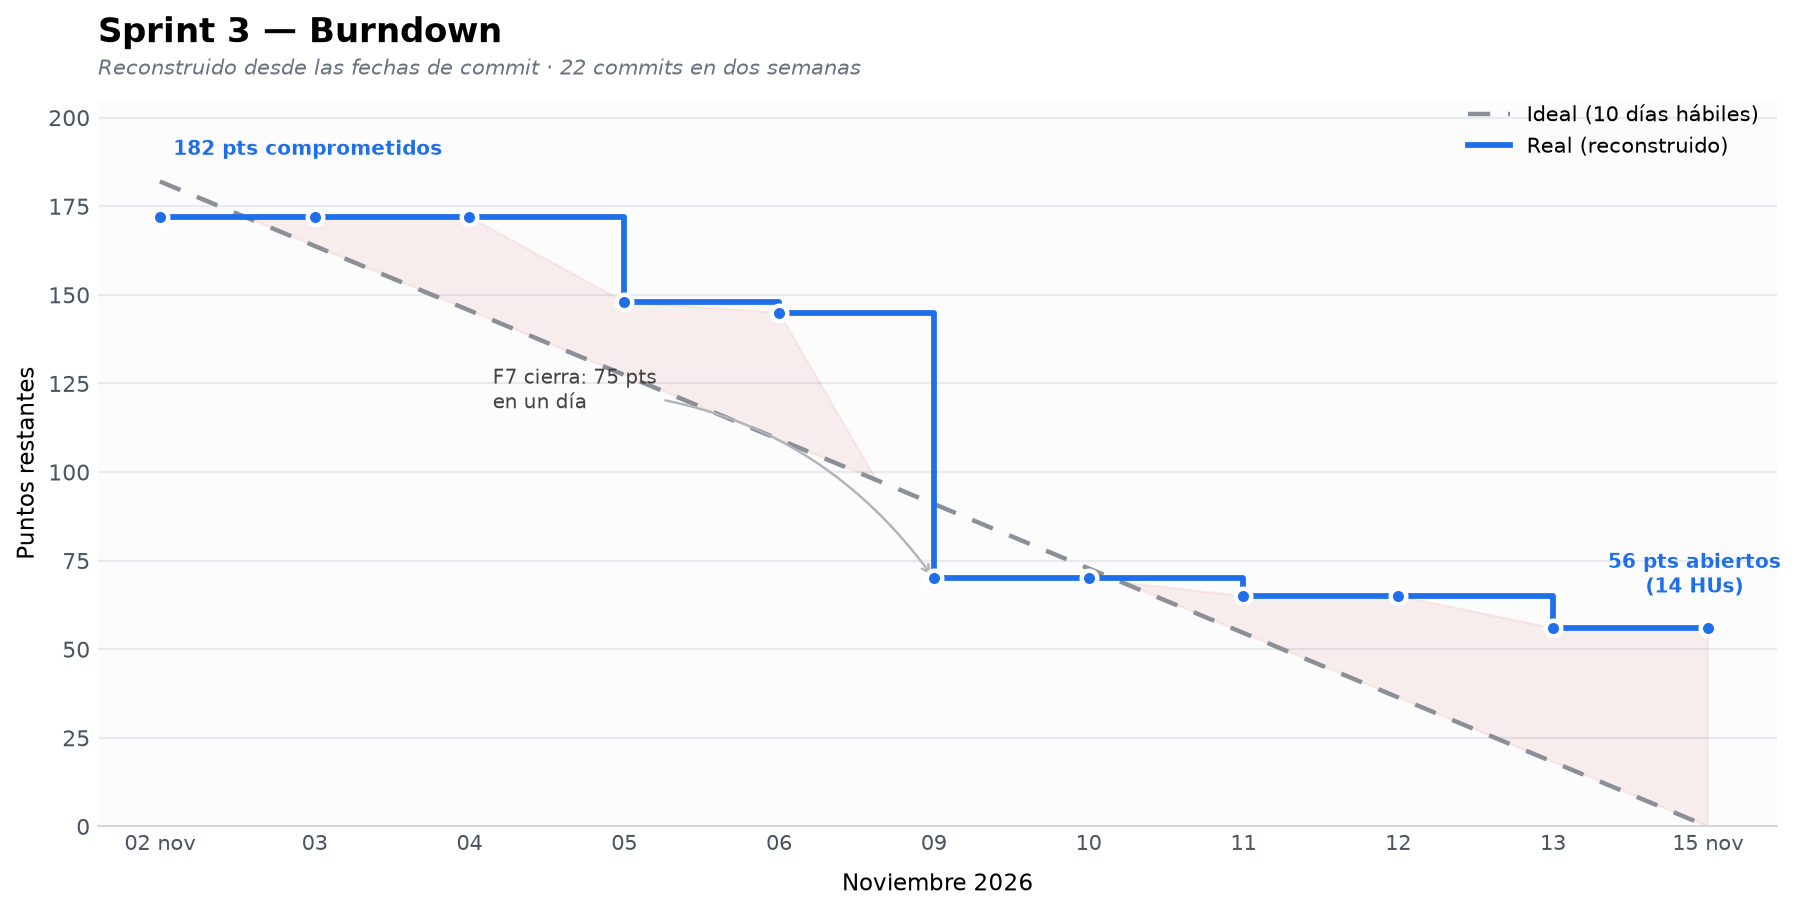
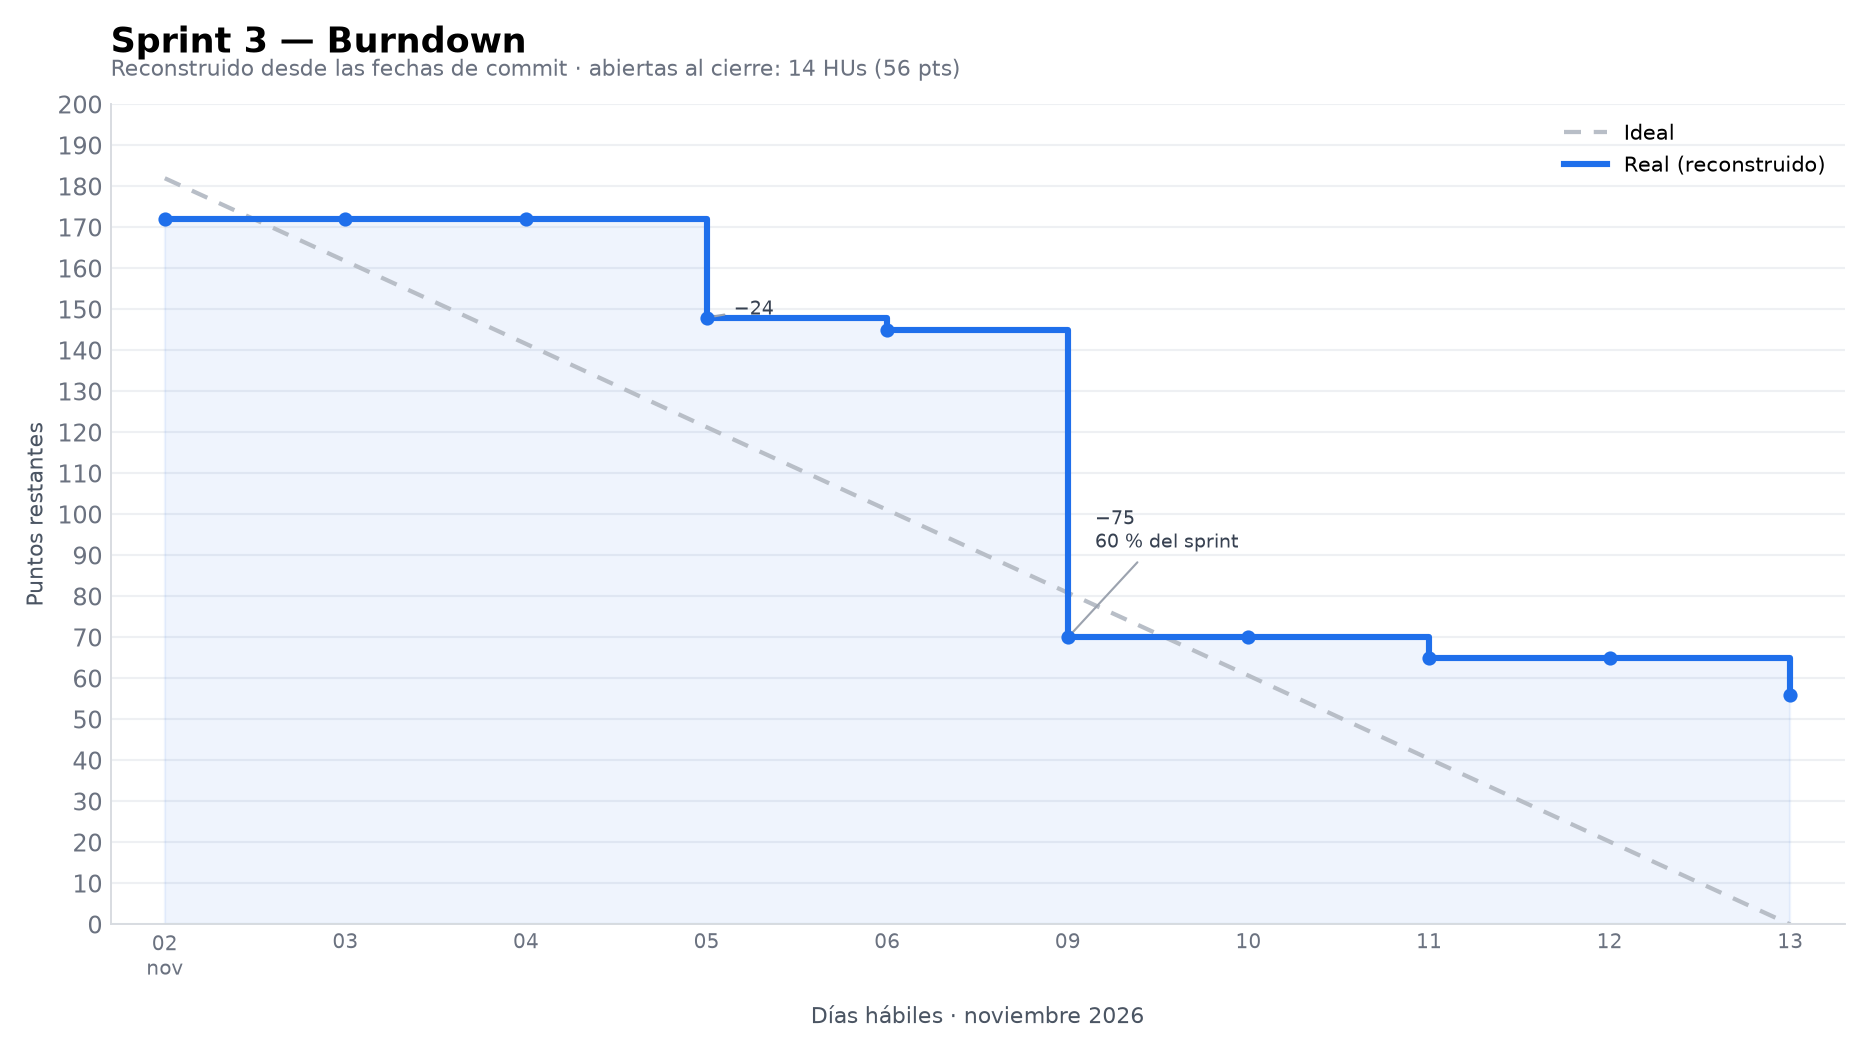
docs(fase2): corregir las cifras que no se sostenian
Auditoria de los 36 documentos contra el repositorio y Jira. Lo que se
corrige:

- Sprint 1: la caida de 10 puntos del 16 de octubre (AUT-1, AUT-2, INV-8)
  no tiene commit que la respalde. El historial salta del 13 al 19. Se
  documenta como no fechada en burndown.md y daily.md en vez de dibujarla
  como si fuera un dato.
- Sprint 1: el hueco maximo era de 16 puntos el 9 de octubre (35 contra
  19,4), no el 12. Y TEC-10 cerro el 6, no el 12: el escalon era de 3 y
  luego de 13.
- Sprint 2: la linea ideal se repartia entre 10 dias y llegaba a cero el
  ultimo, mal calculada.
- Sprint 3: la ideal tenia un dia de mas. El conteo real es 17 commits en
  main (21 contando otras ramas), no 22.
- Sprint 4: el sprint mezcla trabajo arrastrado de los sprints 1 a 3 (18
  HUs), 9 sin sprint y SP-01, no solo "arrastradas de los sprints 2 y 3".
  La ventana de trabajo son 6 dias habiles hasta el 22 o 23, no 10 hasta el
  29: el burndown usaba el calendario de Jira, que no es el del equipo.
- Los totales de los cuatro sprints no suman 83: el Sprint 4 incluye
  trabajo ya contado. Queda dicho en el README.

Se regeneran los cuatro burndown PNG para que coincidan con sus tablas.

diff --git a/docs/fase2/sprint-1/burndown.md b/docs/fase2/sprint-1/burndown.md
@@ -19,15 +19,15 @@
 | Día | Ideal restante | Real restante | HUs que cierran |
 |---|---|---|---|
 | 05 oct | 35,0 | 35 | — |
-| 06 oct | 31,1 | 35 | bootstrap y demo: sin puntos de HU |
-| 07 oct | 27,2 | 35 | — |
-| 08 oct | 23,3 | 35 | — |
-| 09 oct | 19,4 | 35 | — |
-| 12 oct | 15,6 | **19** | TEC-10, TEC-12, DPG-01 a DPG-05 (−16) |
-| 13 oct | 11,7 | 19 | Supabase, sin cierre de HU |
+| 06 oct | 31,1 | **32** | TEC-10 (−3) |
+| 07 oct | 27,2 | 32 | — |
+| 08 oct | 23,3 | 32 | — |
+| 09 oct | 19,4 | 32 | — |
+| 12 oct | 15,6 | **19** | TEC-12, DPG-01 a DPG-05 (−13) |
+| 13 oct | 11,7 | 19 | Supabase y Vercel, sin cierre de HU |
 | 14 oct | 7,8 | 19 | — |
 | 15 oct | 3,9 | 19 | — |
-| 16 oct | 0,0 | **9** | AUT-1, AUT-2, INV-8 (−10) |
+| 16 oct | 0,0 | **9** | AUT-1, AUT-2, INV-8 (−10), **sin commit que lo respalde** |
 | 18 oct | 0,0 | **6** | SP-02 (−3) |
 
 ## Aritmética del cierre
@@ -43,16 +43,27 @@ Cumplimiento          29 / 35 = 83 %
 
 - **La curva es escalonada, no diagonal.** Cinco días sin cierre y dos caídas netas (12 y 16 de
   octubre). Es el patrón de trabajo concentrado en sesiones, no de dedicación diaria pareja.
-- **Termina 6 puntos por encima de la línea ideal**, que son exactamente las dos HUs trasladadas
-  al Sprint 2. No hay desvío no explicado: todo punto abierto tiene destino.
-- **El hueco no creció a mitad de sprint.** La distancia con el ideal pasó de ~16 puntos el 12 de
-  octubre a 6 al cierre: el trabajo aceleró al final, no se estancó.
+- **Termina 6 puntos por encima de la línea ideal**, que son exactamente las dos HUs que se
+  arrastraron al Sprint 4. No hay desvío no explicado: todo punto abierto tiene destino.
+- **El hueco máximo no está al final.** Llegó a ~16 puntos el 9 de octubre, cuando la línea ideal
+  ya había bajado a 19,4 y el real seguía en 32. Al cierre el hueco es de 6.
 
 ## Límite del dato
 
+La caída de 10 puntos del 16 de octubre (AUT-1, AUT-2 e INV-8) **no tiene commit que la respalde**.
+El historial salta del 13 al 19 de octubre, y las rutas que hoy implementan esas HUs
+(`apps/web/src/features/auth/RegisterPage.tsx` y `libs/data-access/`) se crearon en noviembre, en
+el Sprint 3. Jira las da por cerradas dentro del Sprint 1 y esa es la única fuente de la fecha; el
+repositorio no permite fecharlas ahí. Se dibujan el 16 de octubre porque es el último día hábil del
+sprint, no porque exista evidencia de ese día.
+
+Es el mismo desfase que afecta a siete HUs cerradas del Sprint 2, documentado en
+[`../sprint-2/backlog.md`](../sprint-2/backlog.md): el estado en Jira y la fecha del código no
+coinciden, y el documento lo dice en vez de taparlo.
+
 Jira registra SP-02 como `Done` pero **no guarda la fecha de la transición**, así que el paso de
-9 a 6 puntos no se puede ubicar en un día concreto. Se dibuja en el cierre porque es lo único
-verificable. Los otros dos escalones sí tienen fecha de commit.
+9 a 6 puntos tampoco se puede ubicar en un día concreto. Se dibuja en el cierre porque es lo único
+verificable.
 
 ## Datos que respaldan la curva
 
@@ -62,4 +73,5 @@ verificable. Los otros dos escalones sí tienen fecha de commit.
 2026-10-12  feat(core-engine): motor portado desde el prototipo con pruebas
 2026-10-12  feat(shared-types): contrato de juego completo con Zod
 2026-10-13  sql_supabase, vercel.json, evidencia Fase 2
+2026-10-19  siguiente commit del repositorio
 ```

diff --git a/docs/fase2/sprint-4/burndown.md b/docs/fase2/sprint-4/burndown.md
@@ -2,25 +2,24 @@
 
 ![Burndown del Sprint 4 al 20 de noviembre](./burndown.png)
 
-> **Gráfico parcial.** El sprint está activo: solo transcurrieron 5 de los 10 días hábiles. La
-> curva real llega hasta el 20 de noviembre y se detiene ahí; lo que sigue es la proyección ideal,
-> no un dato.
+> **Gráfico parcial.** El sprint está activo y solo transcurrieron 5 de los 6 días hábiles de
+> trabajo. La curva real llega hasta el 20 de noviembre y se detiene ahí; lo que sigue es la
+> proyección ideal, no un dato.
+>
+> **Ventana.** Jira fecha el sprint del 16 al 29 de noviembre, pero el equipo lo cierra el 22 o 23
+> porque la entrega se presenta antes. El burndown usa la ventana real de trabajo, no la del
+> calendario de Jira: seis días hábiles, del 16 al 23.
 
 ## Tabla
 
 | Día hábil | Ideal | Real | Se cierran |
 |---|---|---|---|
 | 16 nov | 162,0 | 162 | — |
-| 17 nov | 145,8 | 162 | — |
-| 18 nov | 129,6 | 162 | — |
-| 19 nov | 113,4 | 162 | — |
-| 20 nov | 97,2 | **159** | SP-01 (−3) |
-| 23 nov | 81,0 | por transcurrir | — |
-| 24 nov | 64,8 | por transcurrir | — |
-| 25 nov | 48,6 | por transcurrir | — |
-| 26 nov | 32,4 | por transcurrir | — |
-| 27 nov | 16,2 | por transcurrir | — |
-| 29 nov | 0,0 | cierre | — |
+| 17 nov | 135,0 | 162 | — |
+| 18 nov | 108,0 | 162 | — |
+| 19 nov | 81,0 | 162 | — |
+| 20 nov | 54,0 | **159** | SP-01 (−3) |
+| 23 nov | 0,0 | cierre | — |
 
 ## Aritmética al 20 de noviembre
 
@@ -29,7 +28,7 @@ Comprometido            162 pts  (39 HUs)
 Cerrado                   3 pts  (1 HU: SP-01)
 Restante                159 pts
 Avance                     1,9 %
-Días hábiles transcurridos  5 de 10
+Días hábiles transcurridos  5 de 6
 ```
 
 ## Lectura
@@ -40,10 +39,12 @@ Días hábiles transcurridos  5 de 10
 - **Siete HUs están en curso y ninguna cerrada.** El trabajo del editor de juegos está en marcha
   —atributos, variables simples, variables derivadas, variables por categoría y variantes— pero
   nada de eso se puede demostrar todavía.
-- **La brecha con la línea ideal es de 62 puntos** al quinto día. Cerrarla exige entregar el editor
-  completo en cinco días hábiles.
-- **El alcance incluye 28 HUs arrastradas**, así que la curva ideal no es alcanzable por
-  construcción: buena parte de esos 162 puntos no se va a cerrar en este sprint.
+- **La brecha con la línea ideal es de 105 puntos** al quinto día. Cerrarla exigiría entregar el
+  editor completo, y algo más, en un solo día hábil.
+- **El alcance incluye 28 HUs que llegaron en el ordenamiento del 20 de noviembre**: 18 arrastradas
+  de los sprints 1 a 3, 9 que no tenían sprint y SP-01, que volvió desde el Sprint 0 para cerrarse.
+  Con eso, la curva ideal no es alcanzable por construcción: buena parte de esos 162 puntos no se
+  va a cerrar en este sprint.
 
 ## Qué mirar en el cierre
 

diff --git a/docs/fase2/sprint-4/planning.md b/docs/fase2/sprint-4/planning.md
@@ -6,8 +6,8 @@
 final.
 
 > Este documento describe un sprint **en curso**. Los datos son los que devuelve Jira el 20 de
-> noviembre de 2026. El equipo cierra el sprint el 22 o 23 de noviembre, así que las cifras
-> cambian antes del cierre y no se presentan como definitivas.
+> noviembre de 2026. Jira lo fecha del 16 al 29, pero el equipo lo cierra el 22 o 23 porque la
+> entrega se presenta antes: esa es la ventana que usan el burndown y las cifras de avance.
 
 ## Contexto de partida
 
@@ -33,9 +33,12 @@ aplicación se sostenga sola, y de cerrar la documentación de las cuatro fases.
 | Investigación (SP) | 1 | 3 |
 | **Total** | **39** | **162** |
 
-> El alcance incluye el trabajo arrastrado de los sprints 2 y 3: 28 HUs que no se cerraron. Se
-> mantiene todo en el sprint abierto para que el pendiente sea visible en un solo lugar, en vez de
-> repartirlo en un backlog que nadie mira.
+> El alcance incluye el trabajo que llegó en el ordenamiento del 20 de noviembre: **28 HUs**. De
+> ellas, 18 se arrastraron de los sprints 1 a 3 (2 del Sprint 1, 2 del Sprint 2 y 14 del Sprint 3),
+> 9 no tenían sprint asignado y SP-01 volvió desde el Sprint 0, donde había quedado abierta desde
+> septiembre. Las otras 11 ya estaban en el sprint: 7 de trabajo en curso y 4 creadas para el
+> cierre. Se mantiene todo en el sprint abierto para que el pendiente sea visible en un solo lugar,
+> en vez de repartirlo en un backlog que nadie mira.
 
 ## Qué se está trabajando de verdad
 
@@ -61,7 +64,7 @@ todo lo demás.
 | El juego demo está hardcodeado en el bundle | TEC-22 lo elimina; es la HU que más riesgo tiene |
 | Dos rutas viejas siguen activas (`/inventario`, `/calculadora-dano`) | TEC-23 las redirige a la home |
 | La interfaz del optimizador tiene dos versiones vivas | UI-01 las unifica antes de la entrega |
-| El sprint arrastra 28 HUs que no se van a cerrar | Se dejan visibles como pendiente, no se marcan como hechas |
+| El sprint incluye 28 HUs que no vienen de este sprint | Se dejan visibles como pendiente, no se marcan como hechas |
 
 ## Criterio de aceptación del sprint
 

diff --git a/docs/fase2/README.md b/docs/fase2/README.md
@@ -34,8 +34,13 @@ de noviembre de 2026; el Sprint 4 está activo y sus cifras son de ese mismo dí
 | [4 — Cierre y entrega](./sprint-4/planning.md) | 16-nov → 29-nov | 39 | 162 | 3 | en curso |
 
 > En los sprints 1 a 3, las HUs que no se cerraron se arrastraron al Sprint 4 al cerrar cada
-> sprint. Por eso el Sprint 4 concentra 39 HUs: 11 propias y 28 heredadas. Está explicado en cada
-> `backlog.md` y no se esconde en una nota al pie.
+> sprint: 2 del Sprint 1, 2 del Sprint 2 y 14 del Sprint 3. A esas 18 se sumaron, en el ordenamiento
+> del 20 de noviembre, 9 HUs que no tenían sprint y SP-01, que volvió desde el Sprint 0 para
+> cerrarse. Por eso el Sprint 4 tiene 39 HUs: 11 propias y 28 llegadas de afuera.
+>
+> **Los totales de los cuatro sprints no se suman.** Sumar 13 + 9 + 39 + 39 da 100, pero el
+> proyecto tiene **83 HUs y 332 puntos**: el Sprint 4 incluye trabajo ya contado en los sprints
+> anteriores. El total del proyecto, y no la suma de la columna, es el número a citar.
 
 Jira tiene además un **Sprint 0 — Arranque del repositorio** (02-sep → 16-sep), con una sola HU:
 SP-01, evaluación de monorepos. No se documenta como sprint porque no hubo iteración: fue la
@@ -69,7 +74,7 @@ decisión de arranque, y esa HU se cerró recién en el Sprint 4.
 ## Cómo leer el conjunto
 
 Los sprints 1 y 2 tienen pocos commits y porcentajes altos: fueron sprints de decisiones, donde el
-trabajo no deja rastro en Git. El Sprint 3 tiene 22 commits y el porcentaje más bajo: se
+trabajo no deja rastro en Git. El Sprint 3 tiene 17 commits en `main` y el porcentaje más bajo: se
 comprometió el doble de lo que el equipo venía entregando. El Sprint 4 es el único que arranca con
 el pendiente de los anteriores encima.
 

diff --git a/docs/fase2/sprint-3/burndown.md b/docs/fase2/sprint-3/burndown.md
@@ -10,23 +10,23 @@
 1. Se asigna cada HU cerrada al commit que la evidencia.
 2. Los commits de fin de semana (7 y 8 de noviembre) se imputan al lunes 9, primer día hábil
    siguiente.
-3. La línea ideal reparte 182 puntos entre los **10 días hábiles** (2 al 13 de noviembre).
+3. La línea ideal reparte 182 puntos entre los **9 intervalos** de los 10 días hábiles (2 al 13 de
+   noviembre): 20,2 puntos por día, y llega a cero el 13.
 
 ## Tabla
 
 | Día hábil | Ideal | Real | Se cierran |
 |---|---|---|---|
 | 02 nov | 182,0 | 172 | TEC-04, TEC-05 (−10) |
-| 03 nov | 163,8 | 172 | — |
-| 04 nov | 145,6 | 172 | — |
-| 05 nov | 127,4 | 148 | TEC-02, TEC-13, TEC-19, TEC-14, CFG-19 (−24) |
-| 06 nov | 109,2 | 145 | AUT-3 (−3) |
-| 09 nov | 91,0 | **70** | CFG-15, INV-3, INV-4, TEC-07, INV-5, INV-7, SIM-01, SIM-03, SIM-04, SIM-05, SIM-06, SIM-07, SIM-08 (−75) |
-| 10 nov | 72,8 | 70 | — |
-| 11 nov | 54,6 | 65 | TEC-06 (−5) |
-| 12 nov | 36,4 | 65 | — |
-| 13 nov | 18,2 | 56 | TEC-11, TEC-15, AUT-4 (−9) |
-| 15 nov | 0,0 | **56** | cierre: 14 HUs arrastradas |
+| 03 nov | 161,8 | 172 | — |
+| 04 nov | 141,6 | 172 | — |
+| 05 nov | 121,3 | 148 | TEC-02, TEC-13, TEC-19, TEC-14, CFG-19 (−24) |
+| 06 nov | 101,1 | 145 | AUT-3 (−3) |
+| 09 nov | 80,9 | **70** | CFG-15, INV-3, INV-4, TEC-07, INV-5, INV-7, SIM-01, SIM-03, SIM-04, SIM-05, SIM-06, SIM-07, SIM-08 (−75) |
+| 10 nov | 60,7 | 70 | — |
+| 11 nov | 40,4 | 65 | TEC-06 (−5) |
+| 12 nov | 20,2 | 65 | — |
+| 13 nov | 0,0 | 56 | TEC-11, TEC-15, AUT-4 (−9) |
 
 ## Aritmética del cierre
 

diff --git a/docs/fase2/sprint-2/burndown.md b/docs/fase2/sprint-2/burndown.md
@@ -10,22 +10,23 @@
 
 1. Se toma la fecha del commit que evidencia cada HU.
 2. Cada día se descuentan los puntos de las HUs cuya evidencia aparece ese día o antes.
-3. La línea ideal reparte 32 puntos entre los **10 días hábiles** del sprint (19 al 30 de octubre).
+3. La línea ideal reparte 32 puntos entre los **10 días hábiles** del sprint (19 al 30 de octubre):
+   3,56 puntos por día, y llega a cero el último día hábil.
 
 ## Tabla
 
 | Día | Ideal restante | Real restante | HUs que cierran |
 |---|---|---|---|
 | 19 oct | 32,0 | 32 | ajuste de e2e, sin cierre de HU |
-| 20 oct | 28,8 | 32 | — |
-| 21 oct | 25,6 | 32 | — |
-| 22 oct | 22,4 | 32 | — |
-| 23 oct | 19,2 | 32 | — |
-| 26 oct | 16,0 | 32 | — |
-| 27 oct | 12,8 | 32 | — |
-| 28 oct | 9,6 | 32 | — |
-| 29 oct | 6,4 | 32 | — |
-| 30 oct | 3,2 | 32 | — |
+| 20 oct | 28,4 | 32 | — |
+| 21 oct | 24,9 | 32 | — |
+| 22 oct | 21,3 | 32 | — |
+| 23 oct | 17,8 | 32 | — |
+| 26 oct | 14,2 | 32 | — |
+| 27 oct | 10,7 | 32 | — |
+| 28 oct | 7,1 | 32 | — |
+| 29 oct | 3,6 | 32 | — |
+| 30 oct | 0,0 | 32 | — |
 | 01 nov | 0,0 | **5** | esquema en el repo, tipos generados y pruebas RLS (−27) |
 
 ## Aritmética del cierre

diff --git a/docs/fase2/sprint-4/impedimentos.md b/docs/fase2/sprint-4/impedimentos.md
@@ -4,9 +4,10 @@
 
 **Origen.** Sprint 3. Se planificaron 182 puntos con una capacidad observada de ~30 por sprint.
 
-**Consecuencia en este sprint.** 28 HUs arrastradas conviven con las 11 propias del cierre. El
-Sprint 4 no puede cumplir su objetivo declarado —documentación, CI/CD y demo final— sin decidir qué
-queda fuera.
+**Consecuencia en este sprint.** 28 HUs llegadas del ordenamiento conviven con las 11 propias del
+cierre: 18 arrastradas de los sprints 1 a 3, 9 que no tenían sprint y SP-01. El Sprint 4 no puede
+cumplir su objetivo declarado —documentación, CI/CD, Docker y demo final— sin decidir qué queda
+fuera.
 
 **Estado.** **Abierto.** No se resuelve moviendo tarjetas: se resuelve cerrando el sprint con una
 lista explícita de lo que no entra.
@@ -39,7 +40,7 @@ veces y las pruebas cubren una sola.
 
 | ID | Impedimento | Estado |
 |---|---|---|
-| IMP-11 | Sprint 3 sobrecomprometido, arrastre de 28 HUs | Abierto |
+| IMP-11 | Sprint 3 sobrecomprometido, 28 HUs llegadas del ordenamiento | Abierto |
 | IMP-12 | Juego demo hardcodeado en el bundle | Abierto, en trabajo |
 | IMP-13 | Dos interfaces de optimizador | Abierto, previsto para UI-01 |
 

diff --git a/docs/fase2/sprint-3/daily.md b/docs/fase2/sprint-3/daily.md
@@ -49,7 +49,7 @@ presentar como acta lo que es una reconstrucción.
 
 ## Observación sobre la cadencia
 
-Ocho de los diez días hábiles tienen al menos un commit, y dos de ellos (7 y 8 de noviembre) son
-fin de semana. Es el sprint con más actividad registrada: 22 commits. Aun así el 60 % de los
-puntos cayó en un solo día, porque el trabajo se integró por funcionalidad completa y no por
-partes demostrables.
+Siete de los diez días hábiles tienen al menos un commit, más el fin de semana del 7 y 8 de
+noviembre. Son **17 commits en `main`** (16 sin contar el merge del PR #10), el sprint con más
+actividad registrada. Aun así, el 60 % de los puntos completados cayó en un solo día, porque el
+trabajo se integró por funcionalidad completa y no por partes demostrables.

diff --git a/docs/fase2/sprint-4/retrospectiva.md b/docs/fase2/sprint-4/retrospectiva.md
@@ -27,7 +27,8 @@
 ### No funcionó
 
 1. **El sprint mezcla dos cosas.** «Documentación, CI/CD, Docker y demo final» convive con 28 HUs
-   arrastradas de producto. Un sprint con dos objetivos distintos no se puede evaluar.
+   que no son de este sprint: 18 arrastradas de los sprints 1 a 3, 9 sin sprint y SP-01. Un sprint
+   con dos objetivos distintos no se puede evaluar.
 2. **El editor llegó último.** Once HUs de configuración dependían de él y se planificaron después
    de todo lo demás. Eso no es un problema de ritmo: es un problema de orden.
 3. **Documentar al final.** La Fase 2 se escribió después de los sprints y hubo que reconstruir

diff --git a/docs/fase2/sprint-4/daily.md b/docs/fase2/sprint-4/daily.md
@@ -6,8 +6,8 @@ Bitácora reconstruida desde las fechas de commit. No existió un daily escrito.
 
 ## 16 de noviembre
 
-- Arranca el sprint con 39 HUs abiertas: 11 propias del cierre y 28 arrastradas de los sprints 2 y
-  3 durante el ordenamiento del 20 de noviembre.
+- Arranca el sprint con 39 HUs abiertas: 11 propias y 28 que llegaron al ordenar Jira el 20 de
+  noviembre (18 arrastradas de los sprints 1 a 3, 9 sin sprint y SP-01 desde el Sprint 0).
 - Se confirma el foco: **el editor de juegos** (atributos, variables, variantes), no las
   funcionalidades sociales.
 

diff --git a/docs/fase2/sprint-1/daily.md b/docs/fase2/sprint-1/daily.md
@@ -28,6 +28,9 @@ reconstruye desde el historial de commits y las decisiones quedan documentadas p
 
 - Autenticación con registro e inicio de sesión (**AUT-1**, **AUT-2**).
 - Persistencia del inventario en la nube (**INV-8**).
+- **Sin commit que lo respalde.** El historial salta del 13 al 19 de octubre y las rutas que hoy
+  implementan esas HUs se crearon en noviembre. La fecha sale de Jira, no del repositorio; está
+  explicado en el [`burndown.md`](./burndown.md), que dibuja esos 10 puntos como no fechados.
 
 ## 18 de octubre — cierre
 

diff --git a/docs/fase2/sprint-3/scrumboard.md b/docs/fase2/sprint-3/scrumboard.md
@@ -30,11 +30,12 @@ retrospectiva del Sprint 2. Se usaron a medias: cuatro HUs quedaron en «En revi
 | Épica | Listas | Revisión | Por hacer |
 |---|---|---|---|
 | Infraestructura (TEC) | 10 | 2 | — |
-| Simulación (SIM) | 6 | 1 | — |
+| Simulación (SIM) | 7 | 1 | — |
 | Inventario (INV) | 4 | — | 1 |
-| Configuración (CFG) | 2 | 1 | 4 |
+| Configuración (CFG) | 2 | 1 | 5 |
 | Comunidad (HUB) | — | — | 4 |
 | Cuentas (AUT) | 2 | — | — |
+| **Total** | **25** | **4** | **10** |
 
 ## Observación
 
